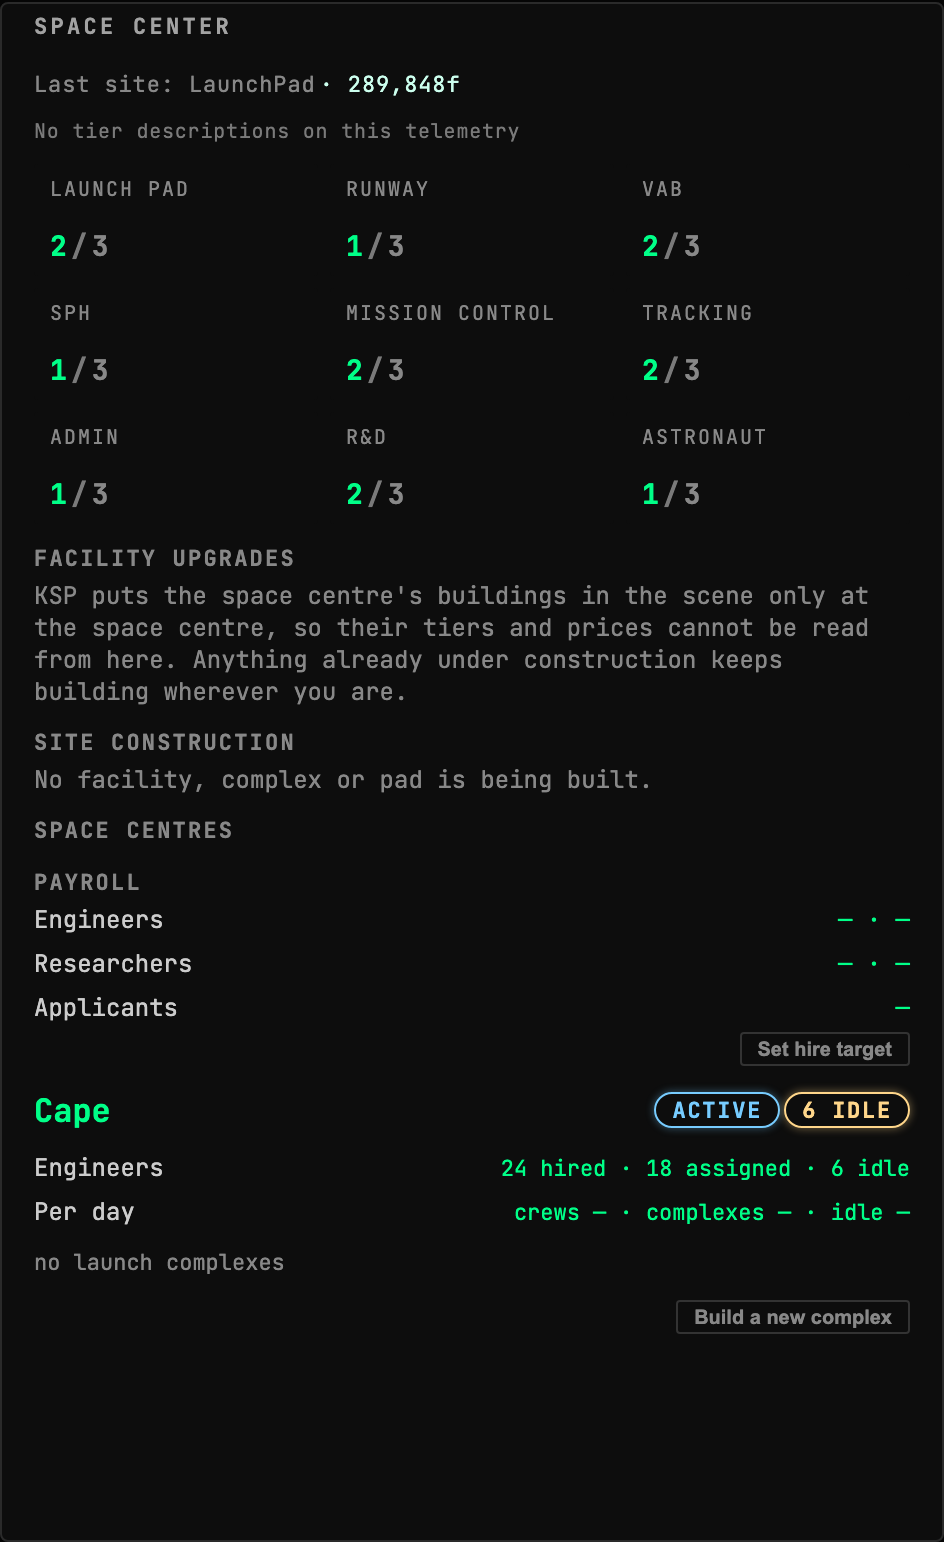
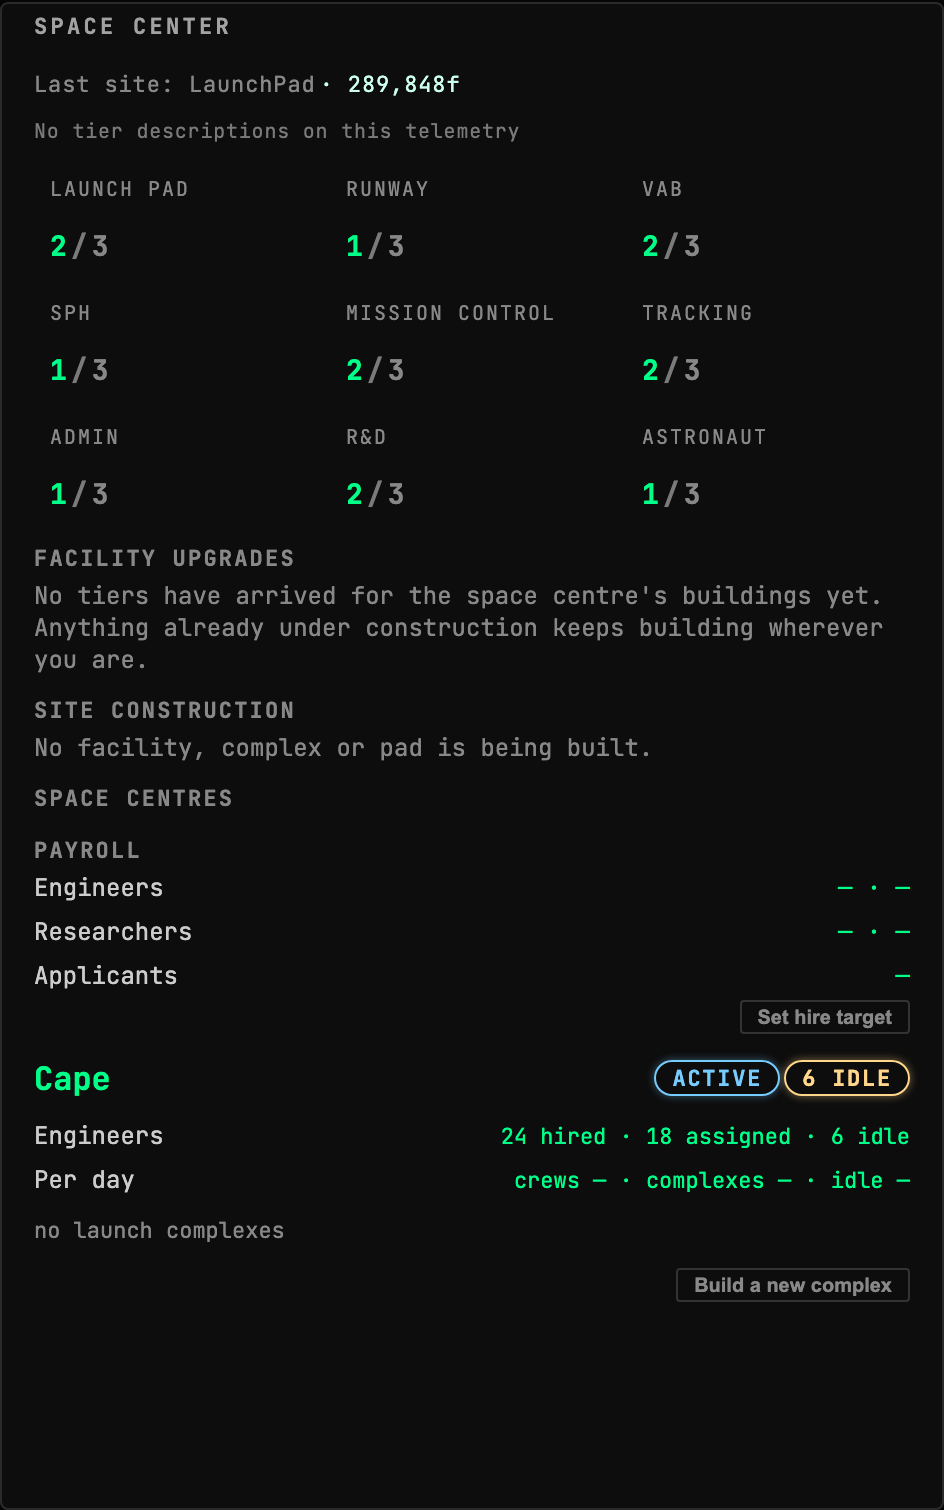
chore(rp1): regenerate the Uplink page
Every render in it now draws the facility-tier changes: the FACILITY UPGRADES
badges name the tier they buy, the construction cards count tiers the way the
host's grid does, the host draws no cell for a facility that reported nothing,
and the three corrected fixtures no longer show one building at two tiers.
`gonogo-uplink docs`, no hand edits.

diff --git a/mod/GonogoRp1Uplink/client/README.md b/mod/GonogoRp1Uplink/client/README.md
@@ -25,6 +25,7 @@ Brings RP-1's career layer to the dashboard: Programs with their objectives, dea
 | `rp1.constructions` | `Rp1ConstructionEntry[]` | lossy-latest | true-now |
 | `rp1.crew` | `Rp1CrewEntry[]` | lossy-latest | true-now |
 | `rp1.crewProgram` | `Rp1CrewProgram` | lossy-latest | true-now |
+| `rp1.facilities` | `Rp1FacilityEntry[]` | lossy-latest | true-now |
 | `rp1.fundTarget` | `Rp1FundTarget` | lossy-latest | true-now |
 | `rp1.lcPricing` | `Rp1LcPricing` | lossy-latest | true-now |
 | `rp1.operations` | `Rp1OperationEntry[]` | lossy-latest | true-now |
@@ -237,7 +238,7 @@ Every craft RP-1 is integrating, holding or could start, across every launch com
 | `rp1-training-courses` | `astronaut-complex.training` | `rp1.available`, `rp1.training`, `rp1.crew` |  | 2 |  |
 | `rp1-training-enrolment` | `astronaut-complex.training` | `rp1.available`, `rp1.trainingCatalogue`, `rp1.crew`, `rp1.crewProgram`, `rp1.training`, `spaceCenter.crewRoster`, `career.status` |  | 3 |  |
 | `rp1-contract-payload` | `contract-manager.sections` | – |  | 1 |  |
-| `rp1-facility-upgrades` | `space-center-status.sections` | `rp1.available`, `career.status`, `rp1.constructions` | only while `rp1` | 2 |  |
+| `rp1-facility-upgrades` | `space-center-status.sections` | `rp1.available`, `career.status`, `rp1.constructions`, `rp1.facilities` | only while `rp1` | 2 |  |
 | `rp1-ksc-complexes` | `space-center-status.sections` | – |  | 12 |  |
 | `rp1-ksc-construction` | `space-center-status.sections` | – |  | 5 |  |
 | `rp1-launch-complex-status` | `launch-director.pad` | – |  | 2 |  |
@@ -272,7 +273,7 @@ Every craft RP-1 is integrating, holding or could start, across every launch com
 
 ![A career with two tiers it could commit to and one building already in the queue. The balance covers one of the two prices and not the other, and neither is refused: RP-1 bills a construction as it builds, so a short career gets a slower upgrade. That is carried by "over the build" and by "Commit" on the confirm rather than by a sentence about it. Each badge names the tier the press BUYS, over the tier the building is at, so it cannot be read against the host's grid as a second opinion. The host's own stock Upgrade controls read Blocked above, because RP-1 does not sell a tier at all](docs/assets/facility-upgrades-at-centre--default.png)
 
-![The same career read from the flight scene: KSP has not put the buildings in the scene, so every tier and every price is absent and the command's own gate refuses. Said out loud, because a career with nothing left to upgrade renders the same silence, and said with the half an operator would otherwise fear, that an upgrade already under way is still building](docs/assets/facility-upgrades-away--default.png)
+![The same career with neither tier channel answering. "career.status" reads the live buildings, which KSP puts in the scene only at the space centre, and RP-1's own cost table has not loaded, so this is a cold start rather than a place. Said out loud, because a career with nothing left to upgrade renders the same silence, and said with the half an operator would otherwise fear, that an upgrade already under way is still building. The host's grid says the same thing once rather than nine times](docs/assets/facility-upgrades-away--default.png)
 
 ![LC-1's detail open on a career with 400f against a 14,118f pad: the quote, the reading that it is more than the balance, and a press that is still live because RP-1 slows the build rather than refusing it](docs/assets/complexes-add-pad--default.png)
 
